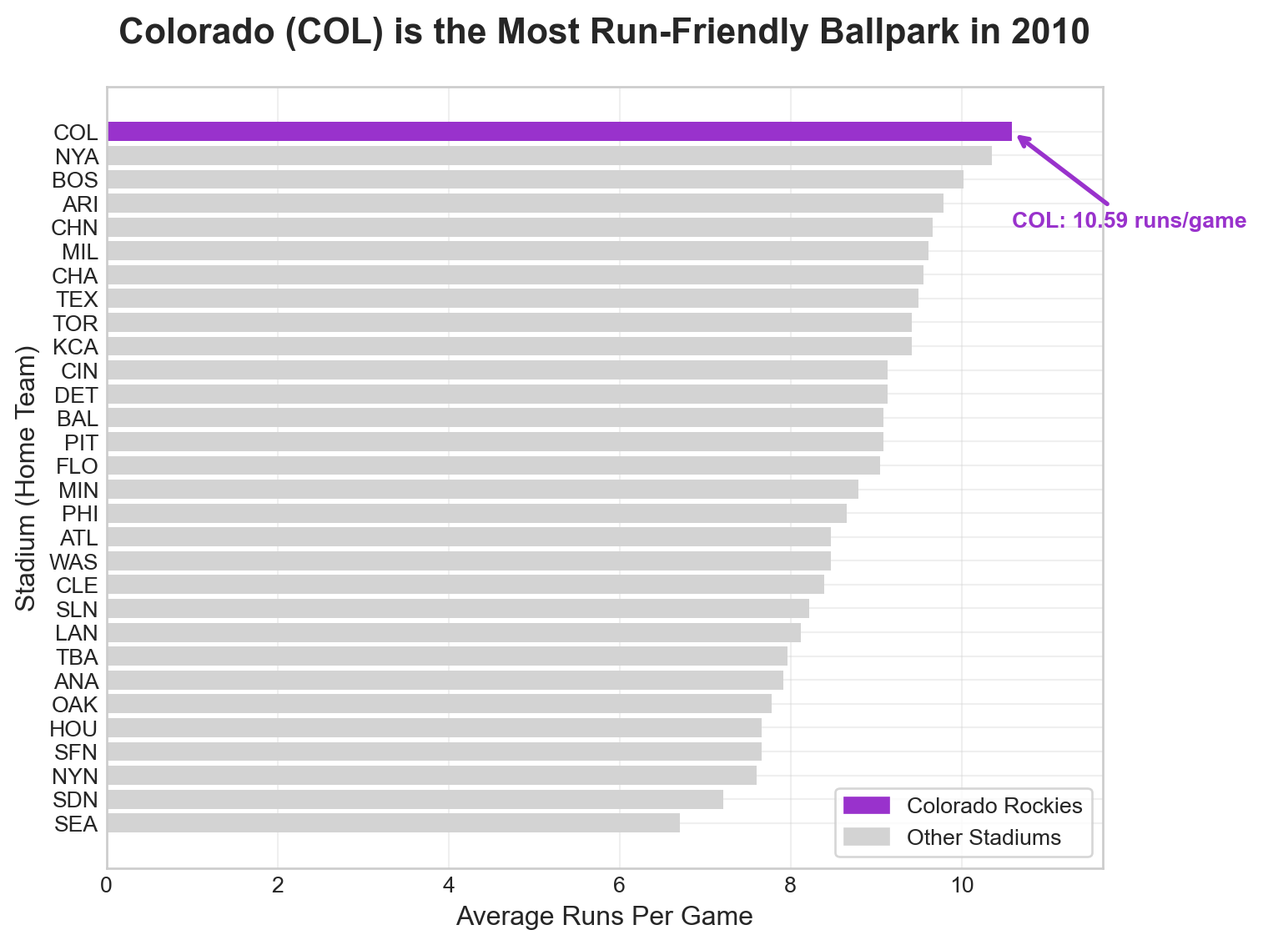
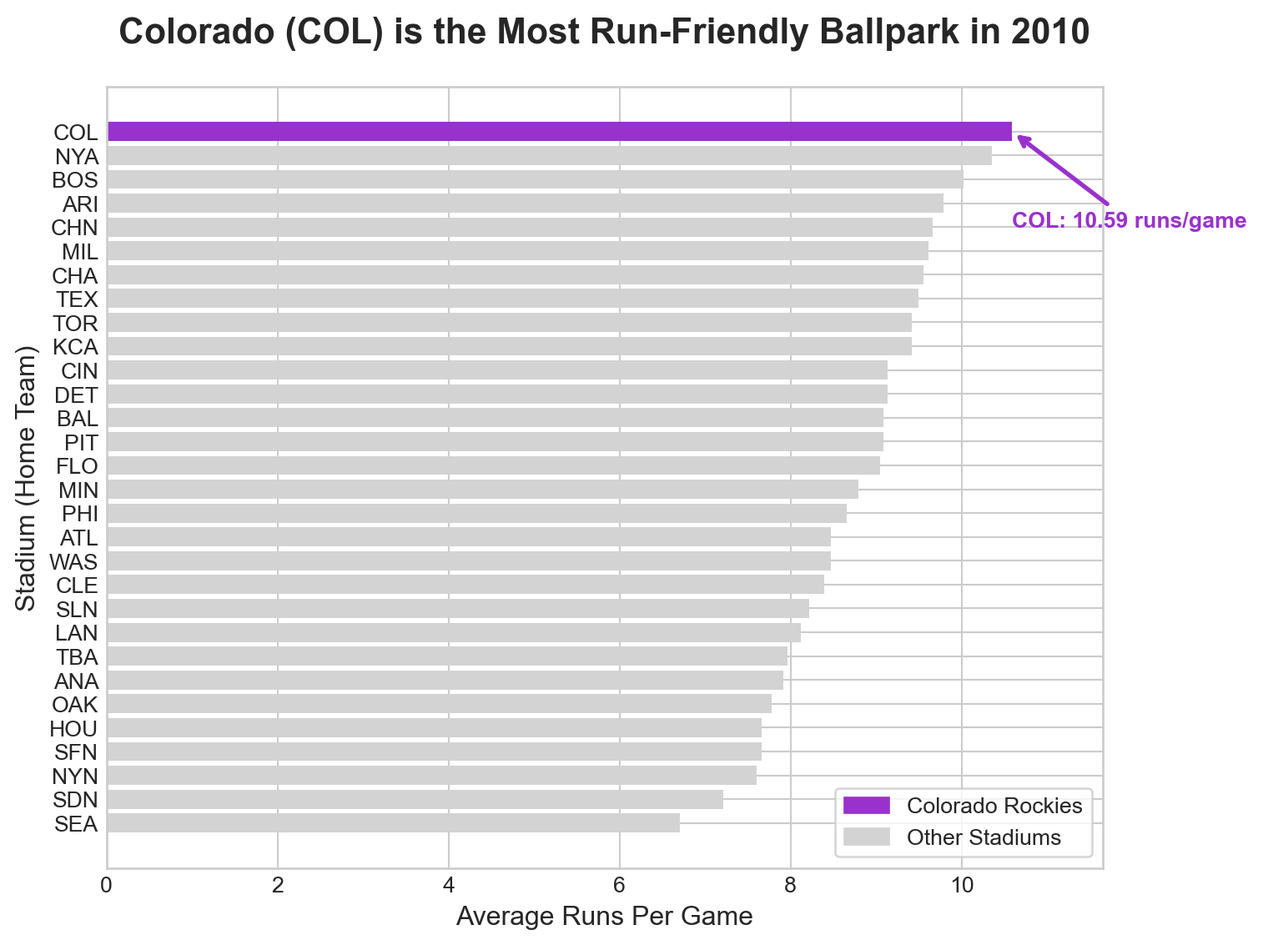
commit with new size

diff --git a/index.html b/index.html
@@ -292,7 +292,7 @@ First few rows of 2010 data:
 <blockquote class="blockquote">
 <p>*<strong>ANSWER 1: Data Aggregation Strategy</strong></p>
 </blockquote>
-<div id="bf7e1490" class="cell" data-execution_count="3">
+<div id="e8009f91" class="cell" data-execution_count="3">
 <div class="code-copy-outer-scaffold"><div class="sourceCode cell-code" id="cb5"><pre class="sourceCode python code-with-copy"><code class="sourceCode python"><span id="cb5-1"><a href="#cb5-1" aria-hidden="true" tabindex="-1"></a><span class="bu">print</span>(<span class="st">"2010 data shape:"</span>, df2010.shape)</span>
 <span id="cb5-2"><a href="#cb5-2" aria-hidden="true" tabindex="-1"></a><span class="bu">print</span>(<span class="st">"2021 data shape:"</span>, df2021.shape)</span></code></pre></div><button title="Copy to Clipboard" class="code-copy-button"><i class="bi"></i></button></div>
 <div class="cell-output cell-output-stdout">
@@ -349,7 +349,7 @@ First few rows of 2010 data:
 <div class="cell-output cell-output-display">
 <div>
 <figure class="figure">
-<p><img src="index_files/figure-html/stage-3-mapping-exploration-output-1.png" id="stage-3-mapping-exploration" width="757" height="565" class="figure-img"></p>
+<p><img src="index_files/figure-html/stage-3-mapping-exploration-output-1.png" id="stage-3-mapping-exploration" width="759" height="566" class="figure-img"></p>
 </figure>
 </div>
 </div>
@@ -500,103 +500,99 @@ Colorado is 20.8% above league average</code></pre>
 <span id="cb11-11"><a href="#cb11-11" aria-hidden="true" tabindex="-1"></a></span>
 <span id="cb11-12"><a href="#cb11-12" aria-hidden="true" tabindex="-1"></a>comparison_data.head()</span>
 <span id="cb11-13"><a href="#cb11-13" aria-hidden="true" tabindex="-1"></a></span>
-<span id="cb11-14"><a href="#cb11-14" aria-hidden="true" tabindex="-1"></a>comparison_data_2010_sorted <span class="op">=</span> comparison_data.sort_values(<span class="st">'runs_2010'</span>, ascending<span class="op">=</span><span class="va">True</span>).copy()</span>
-<span id="cb11-15"><a href="#cb11-15" aria-hidden="true" tabindex="-1"></a>comparison_data_2021_sorted <span class="op">=</span> comparison_data.sort_values(<span class="st">'runs_2021'</span>, ascending<span class="op">=</span><span class="va">True</span>).copy()</span>
-<span id="cb11-16"><a href="#cb11-16" aria-hidden="true" tabindex="-1"></a></span>
-<span id="cb11-17"><a href="#cb11-17" aria-hidden="true" tabindex="-1"></a>plt.style.use(<span class="st">"seaborn-v0_8-whitegrid"</span>)</span>
-<span id="cb11-18"><a href="#cb11-18" aria-hidden="true" tabindex="-1"></a></span>
-<span id="cb11-19"><a href="#cb11-19" aria-hidden="true" tabindex="-1"></a></span>
-<span id="cb11-20"><a href="#cb11-20" aria-hidden="true" tabindex="-1"></a>fig, axes <span class="op">=</span> plt.subplots(<span class="dv">1</span>, <span class="dv">2</span>, figsize<span class="op">=</span>(<span class="dv">9</span>, <span class="dv">6</span>))</span>
-<span id="cb11-21"><a href="#cb11-21" aria-hidden="true" tabindex="-1"></a></span>
+<span id="cb11-14"><a href="#cb11-14" aria-hidden="true" tabindex="-1"></a>comparison_data_2010_sorted <span class="op">=</span> (comparison_data</span>
+<span id="cb11-15"><a href="#cb11-15" aria-hidden="true" tabindex="-1"></a>                               .sort_values(<span class="st">'runs_2010'</span>, ascending<span class="op">=</span><span class="va">True</span>)</span>
+<span id="cb11-16"><a href="#cb11-16" aria-hidden="true" tabindex="-1"></a>                               .reset_index(drop<span class="op">=</span><span class="va">True</span>))</span>
+<span id="cb11-17"><a href="#cb11-17" aria-hidden="true" tabindex="-1"></a>comparison_data_2021_sorted <span class="op">=</span> (comparison_data</span>
+<span id="cb11-18"><a href="#cb11-18" aria-hidden="true" tabindex="-1"></a>                               .sort_values(<span class="st">'runs_2021'</span>, ascending<span class="op">=</span><span class="va">True</span>)</span>
+<span id="cb11-19"><a href="#cb11-19" aria-hidden="true" tabindex="-1"></a>                               .reset_index(drop<span class="op">=</span><span class="va">True</span>))</span>
+<span id="cb11-20"><a href="#cb11-20" aria-hidden="true" tabindex="-1"></a></span>
+<span id="cb11-21"><a href="#cb11-21" aria-hidden="true" tabindex="-1"></a>plt.style.use(<span class="st">"seaborn-v0_8-whitegrid"</span>)</span>
 <span id="cb11-22"><a href="#cb11-22" aria-hidden="true" tabindex="-1"></a></span>
-<span id="cb11-23"><a href="#cb11-23" aria-hidden="true" tabindex="-1"></a><span class="co"># Create color array for highlighting Colorado</span></span>
-<span id="cb11-24"><a href="#cb11-24" aria-hidden="true" tabindex="-1"></a>colorado_colors <span class="op">=</span> [<span class="st">"darkorchid"</span> <span class="cf">if</span> stadium <span class="op">==</span> <span class="st">"COL"</span> <span class="cf">else</span> <span class="st">"lightgrey"</span> </span>
-<span id="cb11-25"><a href="#cb11-25" aria-hidden="true" tabindex="-1"></a>                   <span class="cf">for</span> stadium <span class="kw">in</span> comparison_data_2010_sorted.home]</span>
-<span id="cb11-26"><a href="#cb11-26" aria-hidden="true" tabindex="-1"></a><span class="co"># Create horizontal bar chart</span></span>
-<span id="cb11-27"><a href="#cb11-27" aria-hidden="true" tabindex="-1"></a>bars <span class="op">=</span> axes[<span class="dv">0</span>].barh(comparison_data_2010_sorted.home, comparison_data_2010_sorted.runs_2010, color<span class="op">=</span>colorado_colors)</span>
-<span id="cb11-28"><a href="#cb11-28" aria-hidden="true" tabindex="-1"></a></span>
-<span id="cb11-29"><a href="#cb11-29" aria-hidden="true" tabindex="-1"></a><span class="co"># Add title and labels</span></span>
-<span id="cb11-30"><a href="#cb11-30" aria-hidden="true" tabindex="-1"></a>axes[<span class="dv">0</span>].set_title(<span class="st">"2010 Season: Colorado (COL) is the Most Run-Friendly Ballpark in 2010"</span>, </span>
-<span id="cb11-31"><a href="#cb11-31" aria-hidden="true" tabindex="-1"></a>             fontsize<span class="op">=</span><span class="dv">13</span>, fontweight<span class="op">=</span><span class="st">'bold'</span>, pad<span class="op">=</span><span class="dv">20</span>)</span>
-<span id="cb11-32"><a href="#cb11-32" aria-hidden="true" tabindex="-1"></a>axes[<span class="dv">0</span>].set_xlabel(<span class="st">"Average Runs Per Game"</span>, fontsize<span class="op">=</span><span class="dv">12</span>)</span>
-<span id="cb11-33"><a href="#cb11-33" aria-hidden="true" tabindex="-1"></a>axes[<span class="dv">0</span>].set_ylabel(<span class="st">"Stadium (Home Team)"</span>, fontsize<span class="op">=</span><span class="dv">12</span>)</span>
-<span id="cb11-34"><a href="#cb11-34" aria-hidden="true" tabindex="-1"></a></span>
-<span id="cb11-35"><a href="#cb11-35" aria-hidden="true" tabindex="-1"></a><span class="co"># Add legend</span></span>
-<span id="cb11-36"><a href="#cb11-36" aria-hidden="true" tabindex="-1"></a>colorado_bar <span class="op">=</span> plt.Rectangle((<span class="dv">0</span>,<span class="dv">0</span>),<span class="dv">1</span>,<span class="dv">1</span>, color<span class="op">=</span><span class="st">"darkorchid"</span>, label<span class="op">=</span><span class="st">"Colorado Rockies"</span>)</span>
-<span id="cb11-37"><a href="#cb11-37" aria-hidden="true" tabindex="-1"></a>other_bar <span class="op">=</span> plt.Rectangle((<span class="dv">0</span>,<span class="dv">0</span>),<span class="dv">1</span>,<span class="dv">1</span>, color<span class="op">=</span><span class="st">"lightgrey"</span>, label<span class="op">=</span><span class="st">"Other Stadiums"</span>)</span>
-<span id="cb11-38"><a href="#cb11-38" aria-hidden="true" tabindex="-1"></a>axes[<span class="dv">0</span>].legend(handles<span class="op">=</span>[colorado_bar, other_bar], loc<span class="op">=</span><span class="st">'lower right'</span>, frameon<span class="op">=</span><span class="va">True</span>)</span>
-<span id="cb11-39"><a href="#cb11-39" aria-hidden="true" tabindex="-1"></a></span>
-<span id="cb11-40"><a href="#cb11-40" aria-hidden="true" tabindex="-1"></a><span class="co"># Add annotation for Colorado</span></span>
-<span id="cb11-41"><a href="#cb11-41" aria-hidden="true" tabindex="-1"></a>colorado_index <span class="op">=</span> comparison_data_2010_sorted[comparison_data_2010_sorted.home <span class="op">==</span> <span class="st">"COL"</span>].index[<span class="dv">0</span>]</span>
-<span id="cb11-42"><a href="#cb11-42" aria-hidden="true" tabindex="-1"></a>colorado_runs_2010 <span class="op">=</span> comparison_data_2010_sorted[comparison_data_2010_sorted.home <span class="op">==</span> <span class="st">"COL"</span>][<span class="st">"runs_2010"</span>].iloc[<span class="dv">0</span>]</span>
-<span id="cb11-43"><a href="#cb11-43" aria-hidden="true" tabindex="-1"></a>axes[<span class="dv">0</span>].annotate(<span class="ss">f"COL: </span><span class="sc">{</span>colorado_runs_2010<span class="sc">:.2f}</span><span class="ss"> runs/game"</span>, </span>
-<span id="cb11-44"><a href="#cb11-44" aria-hidden="true" tabindex="-1"></a>            xy<span class="op">=</span>(colorado_runs_2010, colorado_index<span class="op">+</span><span class="dv">19</span>), </span>
-<span id="cb11-45"><a href="#cb11-45" aria-hidden="true" tabindex="-1"></a>            xytext<span class="op">=</span>(colorado_runs_2010, colorado_index<span class="op">+</span><span class="dv">12</span>),</span>
-<span id="cb11-46"><a href="#cb11-46" aria-hidden="true" tabindex="-1"></a>            arrowprops<span class="op">=</span><span class="bu">dict</span>(arrowstyle<span class="op">=</span><span class="st">'-&gt;'</span>, color<span class="op">=</span><span class="st">'darkorchid'</span>, lw<span class="op">=</span><span class="dv">2</span>),</span>
-<span id="cb11-47"><a href="#cb11-47" aria-hidden="true" tabindex="-1"></a>            fontsize<span class="op">=</span><span class="dv">9</span>, fontweight<span class="op">=</span><span class="st">'bold'</span>, color<span class="op">=</span><span class="st">'darkorchid'</span>,</span>
-<span id="cb11-48"><a href="#cb11-48" aria-hidden="true" tabindex="-1"></a>          )</span>
-<span id="cb11-49"><a href="#cb11-49" aria-hidden="true" tabindex="-1"></a></span>
-<span id="cb11-50"><a href="#cb11-50" aria-hidden="true" tabindex="-1"></a><span class="co"># Set x-axis to start from 0 for better comparison</span></span>
-<span id="cb11-51"><a href="#cb11-51" aria-hidden="true" tabindex="-1"></a>axes[<span class="dv">0</span>].set_xlim(<span class="dv">0</span>, <span class="bu">max</span>(comparison_data_2010_sorted.runs_2010) <span class="op">*</span> <span class="fl">1.1</span>)</span>
-<span id="cb11-52"><a href="#cb11-52" aria-hidden="true" tabindex="-1"></a>axes[<span class="dv">0</span>].grid(<span class="va">True</span>, alpha<span class="op">=</span><span class="fl">0.3</span>, axis<span class="op">=</span><span class="st">'x'</span>)</span>
-<span id="cb11-53"><a href="#cb11-53" aria-hidden="true" tabindex="-1"></a></span>
-<span id="cb11-54"><a href="#cb11-54" aria-hidden="true" tabindex="-1"></a><span class="co"># ========== RIGHT PANEL: 2021 DATA ==========</span></span>
-<span id="cb11-55"><a href="#cb11-55" aria-hidden="true" tabindex="-1"></a><span class="co"># Create color array for highlighting Colorado (2021)</span></span>
-<span id="cb11-56"><a href="#cb11-56" aria-hidden="true" tabindex="-1"></a>colorado_colors_2021 <span class="op">=</span> [<span class="st">"darkorchid"</span> <span class="cf">if</span> stadium <span class="op">==</span> <span class="st">"COL"</span> <span class="cf">else</span> <span class="st">"lightgrey"</span> </span>
-<span id="cb11-57"><a href="#cb11-57" aria-hidden="true" tabindex="-1"></a>                        <span class="cf">for</span> stadium <span class="kw">in</span> comparison_data_2021_sorted.home]</span>
-<span id="cb11-58"><a href="#cb11-58" aria-hidden="true" tabindex="-1"></a></span>
-<span id="cb11-59"><a href="#cb11-59" aria-hidden="true" tabindex="-1"></a><span class="co"># Create horizontal bar chart for 2021</span></span>
-<span id="cb11-60"><a href="#cb11-60" aria-hidden="true" tabindex="-1"></a>bars_2021 <span class="op">=</span> axes[<span class="dv">1</span>].barh(comparison_data_2021_sorted.home, comparison_data_2021_sorted.runs_2021, color<span class="op">=</span>colorado_colors_2021)</span>
-<span id="cb11-61"><a href="#cb11-61" aria-hidden="true" tabindex="-1"></a></span>
-<span id="cb11-62"><a href="#cb11-62" aria-hidden="true" tabindex="-1"></a><span class="co"># Add title and labels</span></span>
-<span id="cb11-63"><a href="#cb11-63" aria-hidden="true" tabindex="-1"></a>axes[<span class="dv">1</span>].set_title(<span class="st">"2021 Season: Colorado Remains a Top Run-Friendly Ballpark"</span>, </span>
-<span id="cb11-64"><a href="#cb11-64" aria-hidden="true" tabindex="-1"></a>             fontsize<span class="op">=</span><span class="dv">13</span>, fontweight<span class="op">=</span><span class="st">'bold'</span>, pad<span class="op">=</span><span class="dv">20</span>)</span>
-<span id="cb11-65"><a href="#cb11-65" aria-hidden="true" tabindex="-1"></a>axes[<span class="dv">1</span>].set_xlabel(<span class="st">"Average Runs Per Game"</span>, fontsize<span class="op">=</span><span class="dv">12</span>)</span>
-<span id="cb11-66"><a href="#cb11-66" aria-hidden="true" tabindex="-1"></a>axes[<span class="dv">1</span>].set_ylabel(<span class="st">"Stadium (Home Team)"</span>, fontsize<span class="op">=</span><span class="dv">12</span>)</span>
-<span id="cb11-67"><a href="#cb11-67" aria-hidden="true" tabindex="-1"></a></span>
-<span id="cb11-68"><a href="#cb11-68" aria-hidden="true" tabindex="-1"></a><span class="co"># Add annotation for Colorado in 2021</span></span>
-<span id="cb11-69"><a href="#cb11-69" aria-hidden="true" tabindex="-1"></a>colorado_index_2021 <span class="op">=</span> comparison_data_2021_sorted[comparison_data_2021_sorted.home <span class="op">==</span> <span class="st">"COL"</span>].index[<span class="dv">0</span>]</span>
-<span id="cb11-70"><a href="#cb11-70" aria-hidden="true" tabindex="-1"></a>colorado_runs_2021 <span class="op">=</span> comparison_data_2021_sorted[comparison_data_2021_sorted.home <span class="op">==</span> <span class="st">"COL"</span>][<span class="st">"runs_2021"</span>].iloc[<span class="dv">0</span>]</span>
-<span id="cb11-71"><a href="#cb11-71" aria-hidden="true" tabindex="-1"></a>axes[<span class="dv">1</span>].annotate(<span class="ss">f"COL: </span><span class="sc">{</span>colorado_runs_2021<span class="sc">:.2f}</span><span class="ss"> runs/game"</span>, </span>
-<span id="cb11-72"><a href="#cb11-72" aria-hidden="true" tabindex="-1"></a>            xy<span class="op">=</span>(colorado_runs_2021, colorado_index_2021<span class="op">+</span><span class="dv">17</span>), </span>
-<span id="cb11-73"><a href="#cb11-73" aria-hidden="true" tabindex="-1"></a>            xytext<span class="op">=</span>(colorado_runs_2021, colorado_index_2021<span class="op">+</span><span class="dv">13</span>),</span>
-<span id="cb11-74"><a href="#cb11-74" aria-hidden="true" tabindex="-1"></a>            arrowprops<span class="op">=</span><span class="bu">dict</span>(arrowstyle<span class="op">=</span><span class="st">'-&gt;'</span>, color<span class="op">=</span><span class="st">'darkorchid'</span>, lw<span class="op">=</span><span class="dv">2</span>),</span>
-<span id="cb11-75"><a href="#cb11-75" aria-hidden="true" tabindex="-1"></a>            fontsize<span class="op">=</span><span class="dv">9</span>, fontweight<span class="op">=</span><span class="st">'bold'</span>, color<span class="op">=</span><span class="st">'darkorchid'</span>,</span>
-<span id="cb11-76"><a href="#cb11-76" aria-hidden="true" tabindex="-1"></a>          )</span>
-<span id="cb11-77"><a href="#cb11-77" aria-hidden="true" tabindex="-1"></a></span>
-<span id="cb11-78"><a href="#cb11-78" aria-hidden="true" tabindex="-1"></a><span class="co"># Set x-axis to start from 0 for better comparison</span></span>
-<span id="cb11-79"><a href="#cb11-79" aria-hidden="true" tabindex="-1"></a>axes[<span class="dv">1</span>].set_xlim(<span class="dv">0</span>, <span class="bu">max</span>(comparison_data_2021_sorted.runs_2021) <span class="op">*</span> <span class="fl">1.1</span>)</span>
-<span id="cb11-80"><a href="#cb11-80" aria-hidden="true" tabindex="-1"></a>axes[<span class="dv">1</span>].grid(<span class="va">True</span>, alpha<span class="op">=</span><span class="fl">0.3</span>, axis<span class="op">=</span><span class="st">'x'</span>)</span>
-<span id="cb11-81"><a href="#cb11-81" aria-hidden="true" tabindex="-1"></a>fig.suptitle(<span class="st">"comparison between 2010 and 2021 for Colorado (COL)"</span>, fontsize<span class="op">=</span><span class="dv">20</span>, fontweight<span class="op">=</span><span class="st">'bold'</span>, y<span class="op">=</span><span class="fl">0.98</span>)</span>
-<span id="cb11-82"><a href="#cb11-82" aria-hidden="true" tabindex="-1"></a>plt.tight_layout()</span>
-<span id="cb11-83"><a href="#cb11-83" aria-hidden="true" tabindex="-1"></a>plt.show()</span>
-<span id="cb11-84"><a href="#cb11-84" aria-hidden="true" tabindex="-1"></a></span>
-<span id="cb11-85"><a href="#cb11-85" aria-hidden="true" tabindex="-1"></a><span class="co"># Print summary statistics for comparison</span></span>
-<span id="cb11-86"><a href="#cb11-86" aria-hidden="true" tabindex="-1"></a><span class="bu">print</span>(<span class="ss">f"</span><span class="ch">\n</span><span class="sc">{</span><span class="st">'='</span><span class="op">*</span><span class="dv">60</span><span class="sc">}</span><span class="ss">"</span>)</span>
-<span id="cb11-87"><a href="#cb11-87" aria-hidden="true" tabindex="-1"></a><span class="bu">print</span>(<span class="st">"SUMMARY STATISTICS: 2010 vs 2021 Comparison"</span>)</span>
-<span id="cb11-88"><a href="#cb11-88" aria-hidden="true" tabindex="-1"></a><span class="bu">print</span>(<span class="ss">f"</span><span class="sc">{</span><span class="st">'='</span><span class="op">*</span><span class="dv">60</span><span class="sc">}</span><span class="ss">"</span>)</span>
-<span id="cb11-89"><a href="#cb11-89" aria-hidden="true" tabindex="-1"></a><span class="bu">print</span>(<span class="ss">f"</span><span class="ch">\n</span><span class="ss">2010 Season:"</span>)</span>
-<span id="cb11-90"><a href="#cb11-90" aria-hidden="true" tabindex="-1"></a><span class="bu">print</span>(<span class="ss">f"  Colorado (COL): </span><span class="sc">{</span>colorado_runs_2010<span class="sc">:.2f}</span><span class="ss"> runs/game"</span>)</span>
-<span id="cb11-91"><a href="#cb11-91" aria-hidden="true" tabindex="-1"></a><span class="bu">print</span>(<span class="ss">f"  League Average: </span><span class="sc">{</span>avgDF_2010_sorted<span class="sc">.</span>totalRuns<span class="sc">.</span>mean()<span class="sc">:.2f}</span><span class="ss"> runs/game"</span>)</span>
-<span id="cb11-92"><a href="#cb11-92" aria-hidden="true" tabindex="-1"></a><span class="bu">print</span>(<span class="ss">f"  COL vs Average: </span><span class="sc">{</span>((colorado_runs_2010 <span class="op">/</span> avgDF_2010_sorted.totalRuns.mean()) <span class="op">-</span> <span class="dv">1</span>) <span class="op">*</span> <span class="dv">100</span><span class="sc">:.1f}</span><span class="ss">% above average"</span>)</span>
-<span id="cb11-93"><a href="#cb11-93" aria-hidden="true" tabindex="-1"></a><span class="bu">print</span>(<span class="ss">f"  COL Rank: #</span><span class="sc">{</span><span class="bu">len</span>(avgDF_2010_sorted) <span class="op">-</span> <span class="bu">list</span>(avgDF_2010_sorted.home)<span class="sc">.</span>index(<span class="st">'COL'</span>)<span class="sc">}</span><span class="ss"> of </span><span class="sc">{</span><span class="bu">len</span>(avgDF_2010_sorted)<span class="sc">}</span><span class="ss">"</span>)</span>
-<span id="cb11-94"><a href="#cb11-94" aria-hidden="true" tabindex="-1"></a></span>
-<span id="cb11-95"><a href="#cb11-95" aria-hidden="true" tabindex="-1"></a>avgDF_2021_sorted <span class="op">=</span> avgDF_2021.sort_values(<span class="st">'totalRuns'</span>, ascending<span class="op">=</span><span class="va">True</span>)</span>
-<span id="cb11-96"><a href="#cb11-96" aria-hidden="true" tabindex="-1"></a></span>
-<span id="cb11-97"><a href="#cb11-97" aria-hidden="true" tabindex="-1"></a><span class="bu">print</span>(<span class="ss">f"</span><span class="ch">\n</span><span class="ss">2021 Season:"</span>)</span>
-<span id="cb11-98"><a href="#cb11-98" aria-hidden="true" tabindex="-1"></a><span class="bu">print</span>(<span class="ss">f"  Colorado (COL): </span><span class="sc">{</span>colorado_runs_2021<span class="sc">:.2f}</span><span class="ss"> runs/game"</span>)</span>
-<span id="cb11-99"><a href="#cb11-99" aria-hidden="true" tabindex="-1"></a><span class="bu">print</span>(<span class="ss">f"  League Average: </span><span class="sc">{</span>avgDF_2021_sorted<span class="sc">.</span>totalRuns<span class="sc">.</span>mean()<span class="sc">:.2f}</span><span class="ss"> runs/game"</span>)</span>
-<span id="cb11-100"><a href="#cb11-100" aria-hidden="true" tabindex="-1"></a><span class="bu">print</span>(<span class="ss">f"  COL vs Average: </span><span class="sc">{</span>((colorado_runs_2021 <span class="op">/</span> avgDF_2021_sorted.totalRuns.mean()) <span class="op">-</span> <span class="dv">1</span>) <span class="op">*</span> <span class="dv">100</span><span class="sc">:.1f}</span><span class="ss">% above average"</span>)</span>
-<span id="cb11-101"><a href="#cb11-101" aria-hidden="true" tabindex="-1"></a><span class="bu">print</span>(<span class="ss">f"  COL Rank: #</span><span class="sc">{</span><span class="bu">len</span>(avgDF_2021_sorted) <span class="op">-</span> <span class="bu">list</span>(avgDF_2021_sorted.home)<span class="sc">.</span>index(<span class="st">'COL'</span>)<span class="sc">}</span><span class="ss"> of </span><span class="sc">{</span><span class="bu">len</span>(avgDF_2021_sorted)<span class="sc">}</span><span class="ss">"</span>)</span>
-<span id="cb11-102"><a href="#cb11-102" aria-hidden="true" tabindex="-1"></a></span>
-<span id="cb11-103"><a href="#cb11-103" aria-hidden="true" tabindex="-1"></a><span class="bu">print</span>(<span class="ss">f"</span><span class="ch">\n</span><span class="ss">Change Over Time:"</span>)</span>
-<span id="cb11-104"><a href="#cb11-104" aria-hidden="true" tabindex="-1"></a><span class="bu">print</span>(<span class="ss">f"  Runs/game change: </span><span class="sc">{</span>colorado_runs_2021 <span class="op">-</span> colorado_runs_2010<span class="sc">:+.2f}</span><span class="ss"> runs"</span>)</span>
-<span id="cb11-105"><a href="#cb11-105" aria-hidden="true" tabindex="-1"></a><span class="bu">print</span>(<span class="ss">f"  Percentage change: </span><span class="sc">{</span>((colorado_runs_2021 <span class="op">/</span> colorado_runs_2010) <span class="op">-</span> <span class="dv">1</span>) <span class="op">*</span> <span class="dv">100</span><span class="sc">:+.1f}</span><span class="ss">%"</span>)</span>
-<span id="cb11-106"><a href="#cb11-106" aria-hidden="true" tabindex="-1"></a><span class="bu">print</span>(<span class="ss">f"</span><span class="sc">{</span><span class="st">'='</span><span class="op">*</span><span class="dv">60</span><span class="sc">}</span><span class="ss">"</span>)</span></code></pre></div><button title="Copy to Clipboard" class="code-copy-button"><i class="bi"></i></button></div>
+<span id="cb11-23"><a href="#cb11-23" aria-hidden="true" tabindex="-1"></a></span>
+<span id="cb11-24"><a href="#cb11-24" aria-hidden="true" tabindex="-1"></a>fig, axes <span class="op">=</span> plt.subplots(<span class="dv">1</span>, <span class="dv">2</span>, figsize<span class="op">=</span>(<span class="dv">7</span>, <span class="dv">5</span>), sharey<span class="op">=</span><span class="va">False</span>)</span>
+<span id="cb11-25"><a href="#cb11-25" aria-hidden="true" tabindex="-1"></a></span>
+<span id="cb11-26"><a href="#cb11-26" aria-hidden="true" tabindex="-1"></a><span class="co"># ========== LEFT PANEL: 2010 DATA ==========</span></span>
+<span id="cb11-27"><a href="#cb11-27" aria-hidden="true" tabindex="-1"></a>colorado_colors <span class="op">=</span> [<span class="st">"darkorchid"</span> <span class="cf">if</span> stadium <span class="op">==</span> <span class="st">"COL"</span> <span class="cf">else</span> <span class="st">"lightgrey"</span></span>
+<span id="cb11-28"><a href="#cb11-28" aria-hidden="true" tabindex="-1"></a>                   <span class="cf">for</span> stadium <span class="kw">in</span> comparison_data_2010_sorted.home]</span>
+<span id="cb11-29"><a href="#cb11-29" aria-hidden="true" tabindex="-1"></a>bars <span class="op">=</span> axes[<span class="dv">0</span>].barh(comparison_data_2010_sorted.home,</span>
+<span id="cb11-30"><a href="#cb11-30" aria-hidden="true" tabindex="-1"></a>                    comparison_data_2010_sorted.runs_2010,</span>
+<span id="cb11-31"><a href="#cb11-31" aria-hidden="true" tabindex="-1"></a>                    color<span class="op">=</span>colorado_colors)</span>
+<span id="cb11-32"><a href="#cb11-32" aria-hidden="true" tabindex="-1"></a>axes[<span class="dv">0</span>].set_title(<span class="st">"2010 Season:</span><span class="ch">\n</span><span class="st">Colorado Leads MLB Scoring"</span>,</span>
+<span id="cb11-33"><a href="#cb11-33" aria-hidden="true" tabindex="-1"></a>                  fontsize<span class="op">=</span><span class="dv">9</span>, fontweight<span class="op">=</span><span class="st">'bold'</span>, pad<span class="op">=</span><span class="dv">8</span>)</span>
+<span id="cb11-34"><a href="#cb11-34" aria-hidden="true" tabindex="-1"></a>axes[<span class="dv">0</span>].set_xlabel(<span class="st">"Average Runs/Game"</span>, fontsize<span class="op">=</span><span class="dv">8</span>)</span>
+<span id="cb11-35"><a href="#cb11-35" aria-hidden="true" tabindex="-1"></a>axes[<span class="dv">0</span>].set_ylabel(<span class="st">"Stadium (Home Team)"</span>, fontsize<span class="op">=</span><span class="dv">8</span>)</span>
+<span id="cb11-36"><a href="#cb11-36" aria-hidden="true" tabindex="-1"></a>axes[<span class="dv">0</span>].tick_params(labelsize<span class="op">=</span><span class="dv">7</span>)</span>
+<span id="cb11-37"><a href="#cb11-37" aria-hidden="true" tabindex="-1"></a>colorado_bar <span class="op">=</span> plt.Rectangle((<span class="dv">0</span>, <span class="dv">0</span>), <span class="dv">1</span>, <span class="dv">1</span>, color<span class="op">=</span><span class="st">"darkorchid"</span>, label<span class="op">=</span><span class="st">"Colorado Rockies"</span>)</span>
+<span id="cb11-38"><a href="#cb11-38" aria-hidden="true" tabindex="-1"></a>other_bar <span class="op">=</span> plt.Rectangle((<span class="dv">0</span>, <span class="dv">0</span>), <span class="dv">1</span>, <span class="dv">1</span>, color<span class="op">=</span><span class="st">"lightgrey"</span>, label<span class="op">=</span><span class="st">"Other Stadiums"</span>)</span>
+<span id="cb11-39"><a href="#cb11-39" aria-hidden="true" tabindex="-1"></a>axes[<span class="dv">0</span>].legend(handles<span class="op">=</span>[colorado_bar, other_bar], loc<span class="op">=</span><span class="st">'lower right'</span>, fontsize<span class="op">=</span><span class="dv">7</span>, frameon<span class="op">=</span><span class="va">True</span>)</span>
+<span id="cb11-40"><a href="#cb11-40" aria-hidden="true" tabindex="-1"></a>colorado_index <span class="op">=</span> comparison_data_2010_sorted[comparison_data_2010_sorted.home <span class="op">==</span> <span class="st">"COL"</span>].index[<span class="dv">0</span>]</span>
+<span id="cb11-41"><a href="#cb11-41" aria-hidden="true" tabindex="-1"></a>colorado_runs_2010 <span class="op">=</span> comparison_data_2010_sorted.loc[colorado_index, <span class="st">"runs_2010"</span>]</span>
+<span id="cb11-42"><a href="#cb11-42" aria-hidden="true" tabindex="-1"></a>axes[<span class="dv">0</span>].annotate(<span class="ss">f"COL: </span><span class="sc">{</span>colorado_runs_2010<span class="sc">:.2f}</span><span class="ss">"</span>,</span>
+<span id="cb11-43"><a href="#cb11-43" aria-hidden="true" tabindex="-1"></a>                 xy<span class="op">=</span>(colorado_runs_2010, colorado_index),</span>
+<span id="cb11-44"><a href="#cb11-44" aria-hidden="true" tabindex="-1"></a>                 xytext<span class="op">=</span>(<span class="dv">6</span>, <span class="dv">0</span>),</span>
+<span id="cb11-45"><a href="#cb11-45" aria-hidden="true" tabindex="-1"></a>                 textcoords<span class="op">=</span><span class="st">'offset points'</span>,</span>
+<span id="cb11-46"><a href="#cb11-46" aria-hidden="true" tabindex="-1"></a>                 ha<span class="op">=</span><span class="st">'left'</span>, va<span class="op">=</span><span class="st">'center'</span>,</span>
+<span id="cb11-47"><a href="#cb11-47" aria-hidden="true" tabindex="-1"></a>                 arrowprops<span class="op">=</span><span class="bu">dict</span>(arrowstyle<span class="op">=</span><span class="st">'-&gt;'</span>, color<span class="op">=</span><span class="st">'darkorchid'</span>, lw<span class="op">=</span><span class="fl">1.3</span>),</span>
+<span id="cb11-48"><a href="#cb11-48" aria-hidden="true" tabindex="-1"></a>                 fontsize<span class="op">=</span><span class="fl">7.5</span>, fontweight<span class="op">=</span><span class="st">'bold'</span>, color<span class="op">=</span><span class="st">'darkorchid'</span>)</span>
+<span id="cb11-49"><a href="#cb11-49" aria-hidden="true" tabindex="-1"></a>axes[<span class="dv">0</span>].set_xlim(<span class="dv">0</span>, <span class="bu">max</span>(comparison_data_2010_sorted.runs_2010) <span class="op">*</span> <span class="fl">1.05</span>)</span>
+<span id="cb11-50"><a href="#cb11-50" aria-hidden="true" tabindex="-1"></a></span>
+<span id="cb11-51"><a href="#cb11-51" aria-hidden="true" tabindex="-1"></a><span class="co"># ========== RIGHT PANEL: 2021 DATA ==========</span></span>
+<span id="cb11-52"><a href="#cb11-52" aria-hidden="true" tabindex="-1"></a>colorado_colors_2021 <span class="op">=</span> [<span class="st">"darkorchid"</span> <span class="cf">if</span> stadium <span class="op">==</span> <span class="st">"COL"</span> <span class="cf">else</span> <span class="st">"lightgrey"</span></span>
+<span id="cb11-53"><a href="#cb11-53" aria-hidden="true" tabindex="-1"></a>                        <span class="cf">for</span> stadium <span class="kw">in</span> comparison_data_2021_sorted.home]</span>
+<span id="cb11-54"><a href="#cb11-54" aria-hidden="true" tabindex="-1"></a>bars_2021 <span class="op">=</span> axes[<span class="dv">1</span>].barh(comparison_data_2021_sorted.home,</span>
+<span id="cb11-55"><a href="#cb11-55" aria-hidden="true" tabindex="-1"></a>                         comparison_data_2021_sorted.runs_2021,</span>
+<span id="cb11-56"><a href="#cb11-56" aria-hidden="true" tabindex="-1"></a>                         color<span class="op">=</span>colorado_colors_2021)</span>
+<span id="cb11-57"><a href="#cb11-57" aria-hidden="true" tabindex="-1"></a>axes[<span class="dv">1</span>].set_title(<span class="st">"2021 Season:</span><span class="ch">\n</span><span class="st">Coors Field Still Stands Out"</span>,</span>
+<span id="cb11-58"><a href="#cb11-58" aria-hidden="true" tabindex="-1"></a>                  fontsize<span class="op">=</span><span class="dv">9</span>, fontweight<span class="op">=</span><span class="st">'bold'</span>, pad<span class="op">=</span><span class="dv">8</span>)</span>
+<span id="cb11-59"><a href="#cb11-59" aria-hidden="true" tabindex="-1"></a>axes[<span class="dv">1</span>].set_xlabel(<span class="st">"Average Runs/Game"</span>, fontsize<span class="op">=</span><span class="dv">8</span>)</span>
+<span id="cb11-60"><a href="#cb11-60" aria-hidden="true" tabindex="-1"></a>axes[<span class="dv">1</span>].set_ylabel(<span class="st">"Stadium (Home Team)"</span>, fontsize<span class="op">=</span><span class="dv">8</span>)</span>
+<span id="cb11-61"><a href="#cb11-61" aria-hidden="true" tabindex="-1"></a>axes[<span class="dv">1</span>].tick_params(labelsize<span class="op">=</span><span class="dv">7</span>)</span>
+<span id="cb11-62"><a href="#cb11-62" aria-hidden="true" tabindex="-1"></a>colorado_index_2021 <span class="op">=</span> comparison_data_2021_sorted[comparison_data_2021_sorted.home <span class="op">==</span> <span class="st">"COL"</span>].index[<span class="dv">0</span>]</span>
+<span id="cb11-63"><a href="#cb11-63" aria-hidden="true" tabindex="-1"></a>colorado_runs_2021 <span class="op">=</span> comparison_data_2021_sorted.loc[colorado_index_2021, <span class="st">"runs_2021"</span>]</span>
+<span id="cb11-64"><a href="#cb11-64" aria-hidden="true" tabindex="-1"></a>axes[<span class="dv">1</span>].annotate(<span class="ss">f"COL: </span><span class="sc">{</span>colorado_runs_2021<span class="sc">:.2f}</span><span class="ss">"</span>,</span>
+<span id="cb11-65"><a href="#cb11-65" aria-hidden="true" tabindex="-1"></a>                 xy<span class="op">=</span>(colorado_runs_2021, colorado_index_2021),</span>
+<span id="cb11-66"><a href="#cb11-66" aria-hidden="true" tabindex="-1"></a>                 xytext<span class="op">=</span>(<span class="dv">6</span>, <span class="dv">0</span>),</span>
+<span id="cb11-67"><a href="#cb11-67" aria-hidden="true" tabindex="-1"></a>                 textcoords<span class="op">=</span><span class="st">'offset points'</span>,</span>
+<span id="cb11-68"><a href="#cb11-68" aria-hidden="true" tabindex="-1"></a>                 ha<span class="op">=</span><span class="st">'left'</span>, va<span class="op">=</span><span class="st">'center'</span>,</span>
+<span id="cb11-69"><a href="#cb11-69" aria-hidden="true" tabindex="-1"></a>                 arrowprops<span class="op">=</span><span class="bu">dict</span>(arrowstyle<span class="op">=</span><span class="st">'-&gt;'</span>, color<span class="op">=</span><span class="st">'darkorchid'</span>, lw<span class="op">=</span><span class="fl">1.3</span>),</span>
+<span id="cb11-70"><a href="#cb11-70" aria-hidden="true" tabindex="-1"></a>                 fontsize<span class="op">=</span><span class="fl">7.5</span>, fontweight<span class="op">=</span><span class="st">'bold'</span>, color<span class="op">=</span><span class="st">'darkorchid'</span>)</span>
+<span id="cb11-71"><a href="#cb11-71" aria-hidden="true" tabindex="-1"></a>axes[<span class="dv">1</span>].set_xlim(<span class="dv">0</span>, <span class="bu">max</span>(comparison_data_2021_sorted.runs_2021) <span class="op">*</span> <span class="fl">1.05</span>)</span>
+<span id="cb11-72"><a href="#cb11-72" aria-hidden="true" tabindex="-1"></a>axes[<span class="dv">1</span>].legend(handles<span class="op">=</span>[colorado_bar, other_bar], loc<span class="op">=</span><span class="st">'lower right'</span>, fontsize<span class="op">=</span><span class="dv">7</span>, frameon<span class="op">=</span><span class="va">True</span>)</span>
+<span id="cb11-73"><a href="#cb11-73" aria-hidden="true" tabindex="-1"></a></span>
+<span id="cb11-74"><a href="#cb11-74" aria-hidden="true" tabindex="-1"></a>fig.suptitle(<span class="st">"Coors Field Run Environment: 2010 vs 2021"</span>,</span>
+<span id="cb11-75"><a href="#cb11-75" aria-hidden="true" tabindex="-1"></a>             fontsize<span class="op">=</span><span class="dv">11</span>, fontweight<span class="op">=</span><span class="st">'bold'</span>, y<span class="op">=</span><span class="fl">0.97</span>)</span>
+<span id="cb11-76"><a href="#cb11-76" aria-hidden="true" tabindex="-1"></a>plt.tight_layout(rect<span class="op">=</span>[<span class="dv">0</span>, <span class="dv">0</span>, <span class="dv">1</span>, <span class="fl">0.94</span>], pad<span class="op">=</span><span class="fl">1.0</span>, w_pad<span class="op">=</span><span class="fl">0.3</span>)</span>
+<span id="cb11-77"><a href="#cb11-77" aria-hidden="true" tabindex="-1"></a>plt.show()</span>
+<span id="cb11-78"><a href="#cb11-78" aria-hidden="true" tabindex="-1"></a></span>
+<span id="cb11-79"><a href="#cb11-79" aria-hidden="true" tabindex="-1"></a></span>
+<span id="cb11-80"><a href="#cb11-80" aria-hidden="true" tabindex="-1"></a></span>
+<span id="cb11-81"><a href="#cb11-81" aria-hidden="true" tabindex="-1"></a><span class="co"># Print summary statistics for comparison</span></span>
+<span id="cb11-82"><a href="#cb11-82" aria-hidden="true" tabindex="-1"></a><span class="bu">print</span>(<span class="ss">f"</span><span class="ch">\n</span><span class="sc">{</span><span class="st">'='</span><span class="op">*</span><span class="dv">60</span><span class="sc">}</span><span class="ss">"</span>)</span>
+<span id="cb11-83"><a href="#cb11-83" aria-hidden="true" tabindex="-1"></a><span class="bu">print</span>(<span class="st">"SUMMARY STATISTICS: 2010 vs 2021 Comparison"</span>)</span>
+<span id="cb11-84"><a href="#cb11-84" aria-hidden="true" tabindex="-1"></a><span class="bu">print</span>(<span class="ss">f"</span><span class="sc">{</span><span class="st">'='</span><span class="op">*</span><span class="dv">60</span><span class="sc">}</span><span class="ss">"</span>)</span>
+<span id="cb11-85"><a href="#cb11-85" aria-hidden="true" tabindex="-1"></a><span class="bu">print</span>(<span class="ss">f"</span><span class="ch">\n</span><span class="ss">2010 Season:"</span>)</span>
+<span id="cb11-86"><a href="#cb11-86" aria-hidden="true" tabindex="-1"></a><span class="bu">print</span>(<span class="ss">f"  Colorado (COL): </span><span class="sc">{</span>colorado_runs_2010<span class="sc">:.2f}</span><span class="ss"> runs/game"</span>)</span>
+<span id="cb11-87"><a href="#cb11-87" aria-hidden="true" tabindex="-1"></a><span class="bu">print</span>(<span class="ss">f"  League Average: </span><span class="sc">{</span>avgDF_2010_sorted<span class="sc">.</span>totalRuns<span class="sc">.</span>mean()<span class="sc">:.2f}</span><span class="ss"> runs/game"</span>)</span>
+<span id="cb11-88"><a href="#cb11-88" aria-hidden="true" tabindex="-1"></a><span class="bu">print</span>(<span class="ss">f"  COL vs Average: </span><span class="sc">{</span>((colorado_runs_2010 <span class="op">/</span> avgDF_2010_sorted.totalRuns.mean()) <span class="op">-</span> <span class="dv">1</span>) <span class="op">*</span> <span class="dv">100</span><span class="sc">:.1f}</span><span class="ss">% above average"</span>)</span>
+<span id="cb11-89"><a href="#cb11-89" aria-hidden="true" tabindex="-1"></a><span class="bu">print</span>(<span class="ss">f"  COL Rank: #</span><span class="sc">{</span><span class="bu">len</span>(avgDF_2010_sorted) <span class="op">-</span> <span class="bu">list</span>(avgDF_2010_sorted.home)<span class="sc">.</span>index(<span class="st">'COL'</span>)<span class="sc">}</span><span class="ss"> of </span><span class="sc">{</span><span class="bu">len</span>(avgDF_2010_sorted)<span class="sc">}</span><span class="ss">"</span>)</span>
+<span id="cb11-90"><a href="#cb11-90" aria-hidden="true" tabindex="-1"></a></span>
+<span id="cb11-91"><a href="#cb11-91" aria-hidden="true" tabindex="-1"></a>avgDF_2021_sorted <span class="op">=</span> avgDF_2021.sort_values(<span class="st">'totalRuns'</span>, ascending<span class="op">=</span><span class="va">True</span>)</span>
+<span id="cb11-92"><a href="#cb11-92" aria-hidden="true" tabindex="-1"></a></span>
+<span id="cb11-93"><a href="#cb11-93" aria-hidden="true" tabindex="-1"></a><span class="bu">print</span>(<span class="ss">f"</span><span class="ch">\n</span><span class="ss">2021 Season:"</span>)</span>
+<span id="cb11-94"><a href="#cb11-94" aria-hidden="true" tabindex="-1"></a><span class="bu">print</span>(<span class="ss">f"  Colorado (COL): </span><span class="sc">{</span>colorado_runs_2021<span class="sc">:.2f}</span><span class="ss"> runs/game"</span>)</span>
+<span id="cb11-95"><a href="#cb11-95" aria-hidden="true" tabindex="-1"></a><span class="bu">print</span>(<span class="ss">f"  League Average: </span><span class="sc">{</span>avgDF_2021_sorted<span class="sc">.</span>totalRuns<span class="sc">.</span>mean()<span class="sc">:.2f}</span><span class="ss"> runs/game"</span>)</span>
+<span id="cb11-96"><a href="#cb11-96" aria-hidden="true" tabindex="-1"></a><span class="bu">print</span>(<span class="ss">f"  COL vs Average: </span><span class="sc">{</span>((colorado_runs_2021 <span class="op">/</span> avgDF_2021_sorted.totalRuns.mean()) <span class="op">-</span> <span class="dv">1</span>) <span class="op">*</span> <span class="dv">100</span><span class="sc">:.1f}</span><span class="ss">% above average"</span>)</span>
+<span id="cb11-97"><a href="#cb11-97" aria-hidden="true" tabindex="-1"></a><span class="bu">print</span>(<span class="ss">f"  COL Rank: #</span><span class="sc">{</span><span class="bu">len</span>(avgDF_2021_sorted) <span class="op">-</span> <span class="bu">list</span>(avgDF_2021_sorted.home)<span class="sc">.</span>index(<span class="st">'COL'</span>)<span class="sc">}</span><span class="ss"> of </span><span class="sc">{</span><span class="bu">len</span>(avgDF_2021_sorted)<span class="sc">}</span><span class="ss">"</span>)</span>
+<span id="cb11-98"><a href="#cb11-98" aria-hidden="true" tabindex="-1"></a></span>
+<span id="cb11-99"><a href="#cb11-99" aria-hidden="true" tabindex="-1"></a><span class="bu">print</span>(<span class="ss">f"</span><span class="ch">\n</span><span class="ss">Change Over Time:"</span>)</span>
+<span id="cb11-100"><a href="#cb11-100" aria-hidden="true" tabindex="-1"></a><span class="bu">print</span>(<span class="ss">f"  Runs/game change: </span><span class="sc">{</span>colorado_runs_2021 <span class="op">-</span> colorado_runs_2010<span class="sc">:+.2f}</span><span class="ss"> runs"</span>)</span>
+<span id="cb11-101"><a href="#cb11-101" aria-hidden="true" tabindex="-1"></a><span class="bu">print</span>(<span class="ss">f"  Percentage change: </span><span class="sc">{</span>((colorado_runs_2021 <span class="op">/</span> colorado_runs_2010) <span class="op">-</span> <span class="dv">1</span>) <span class="op">*</span> <span class="dv">100</span><span class="sc">:+.1f}</span><span class="ss">%"</span>)</span>
+<span id="cb11-102"><a href="#cb11-102" aria-hidden="true" tabindex="-1"></a><span class="bu">print</span>(<span class="ss">f"</span><span class="sc">{</span><span class="st">'='</span><span class="op">*</span><span class="dv">60</span><span class="sc">}</span><span class="ss">"</span>)</span></code></pre></div><button title="Copy to Clipboard" class="code-copy-button"><i class="bi"></i></button></div>
 <div class="cell-output cell-output-display">
 <div>
 <figure class="figure">
-<p><img src="index_files/figure-html/advanced-oo-techniques-output-1.png" id="advanced-oo-techniques" width="991" height="569" class="figure-img"></p>
+<p><img src="index_files/figure-html/advanced-oo-techniques-output-1.png" id="advanced-oo-techniques" width="664" height="471" class="figure-img"></p>
 </figure>
 </div>
 </div>
